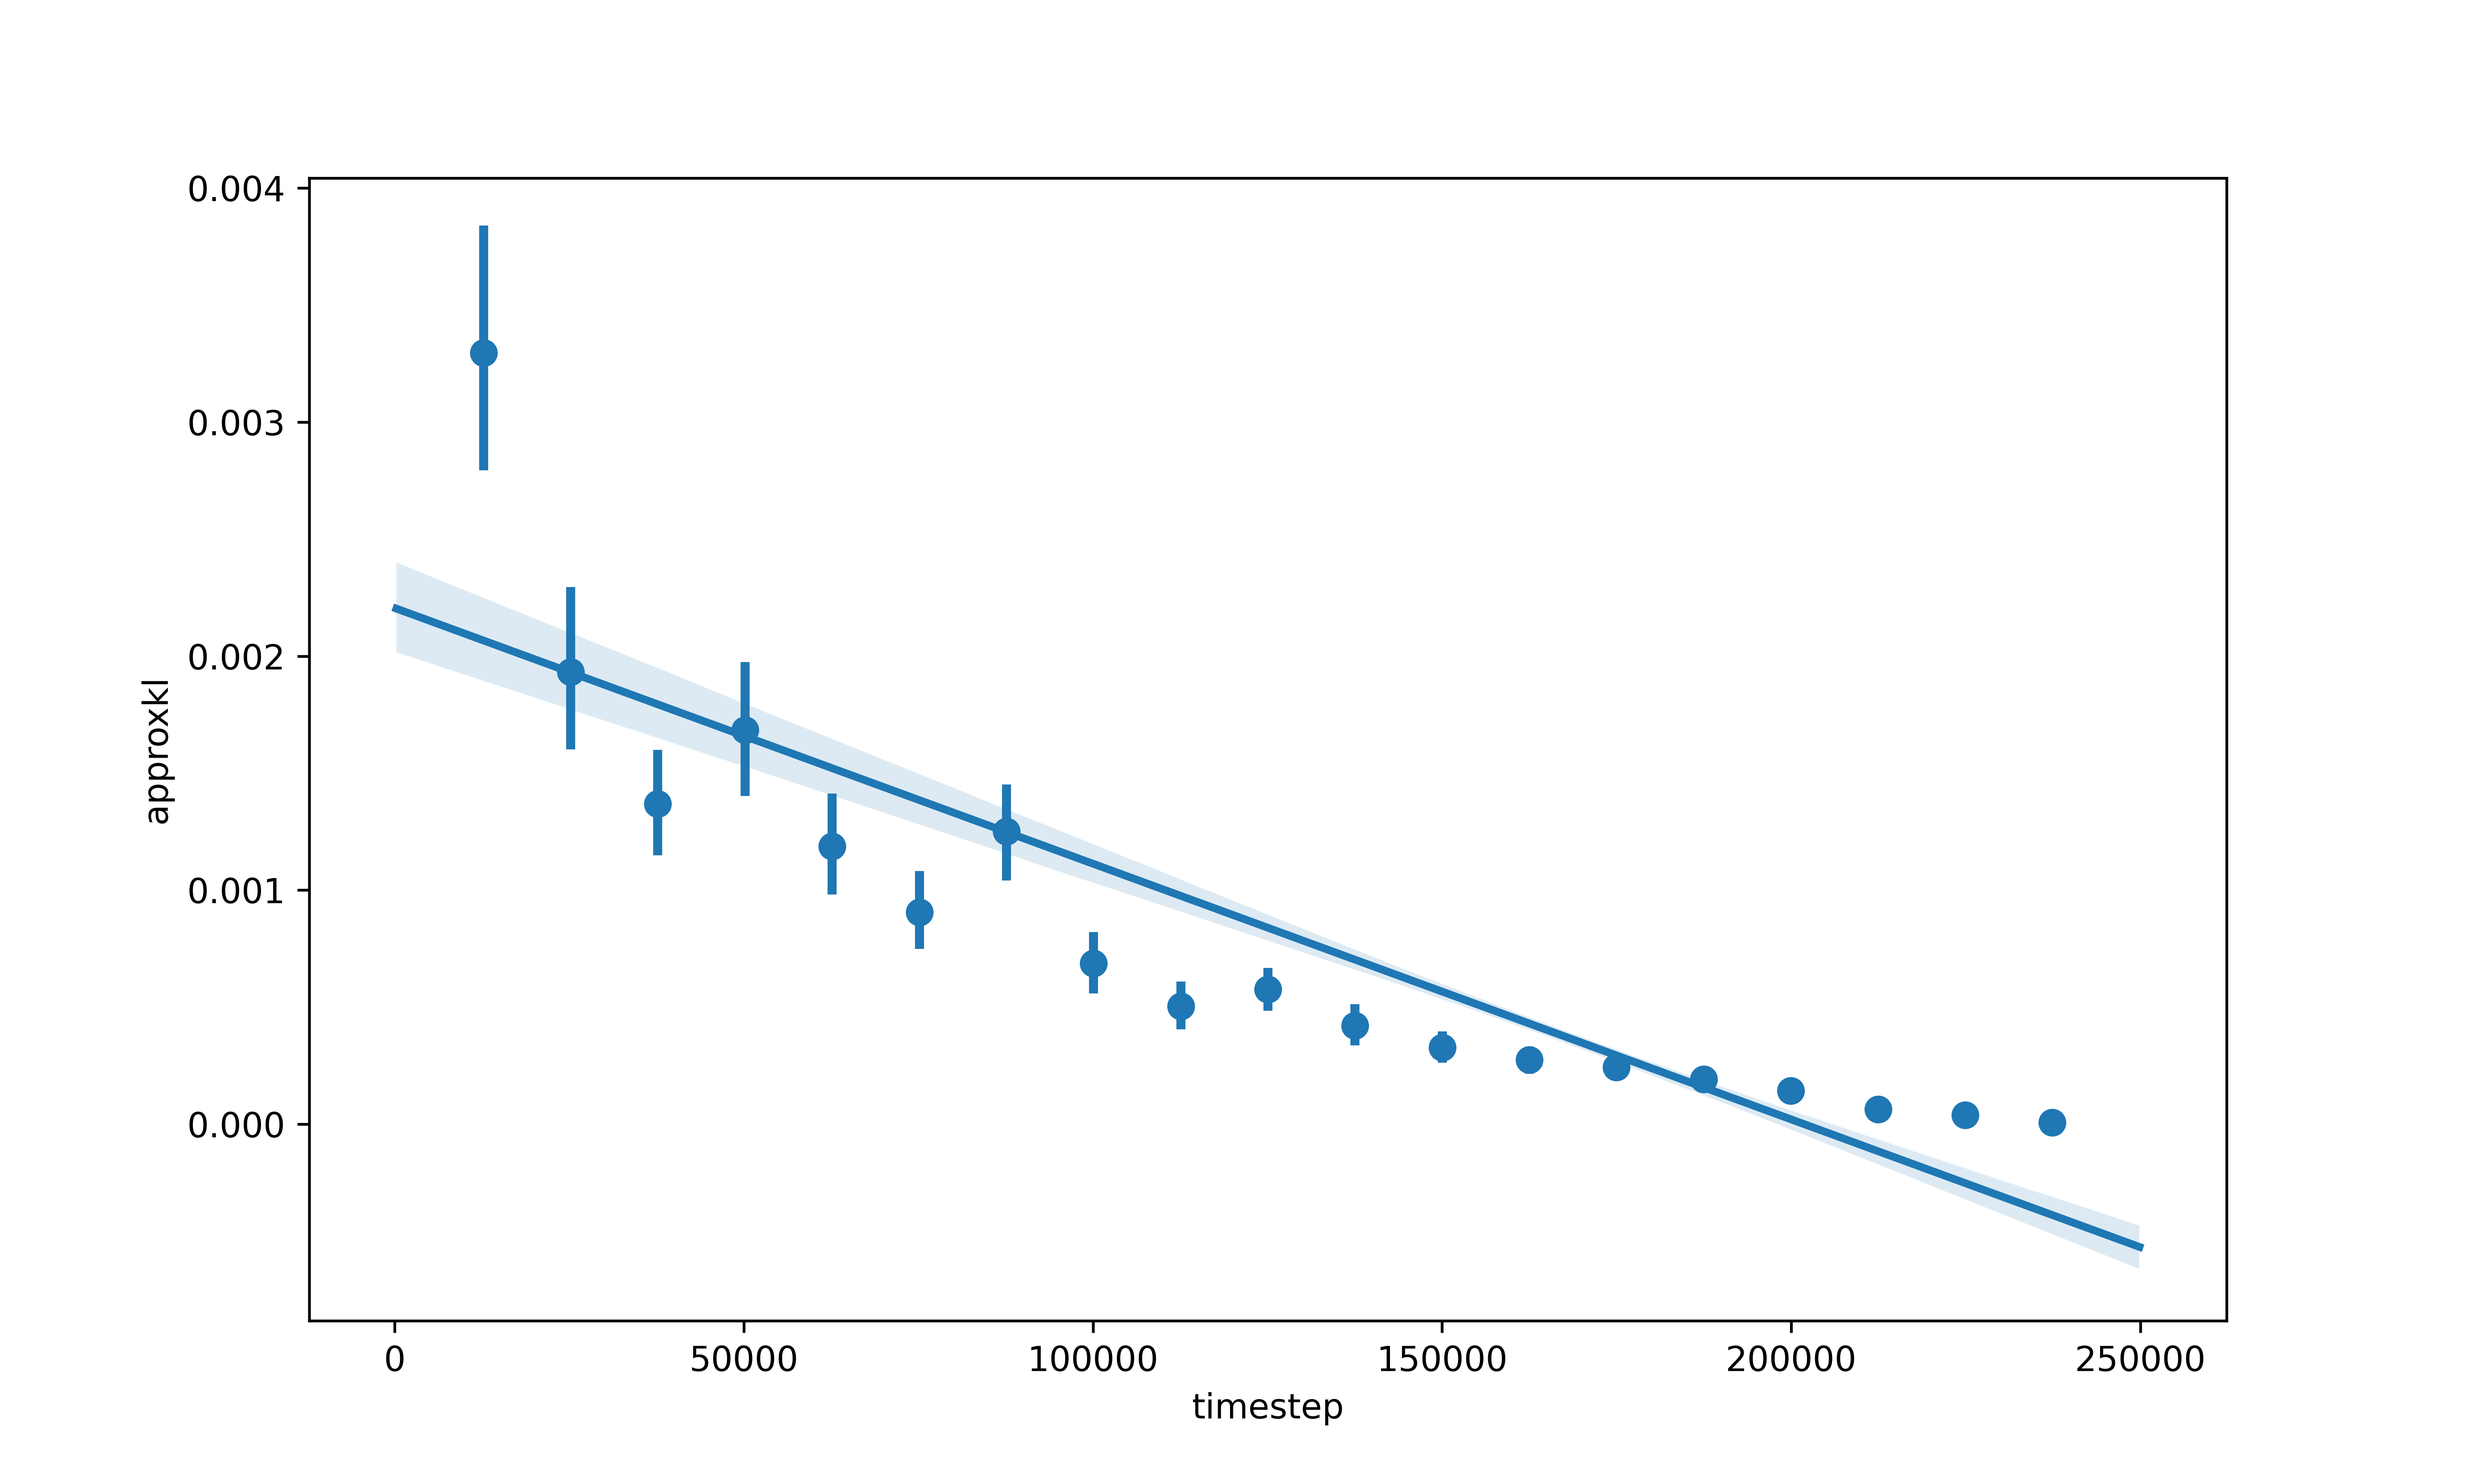
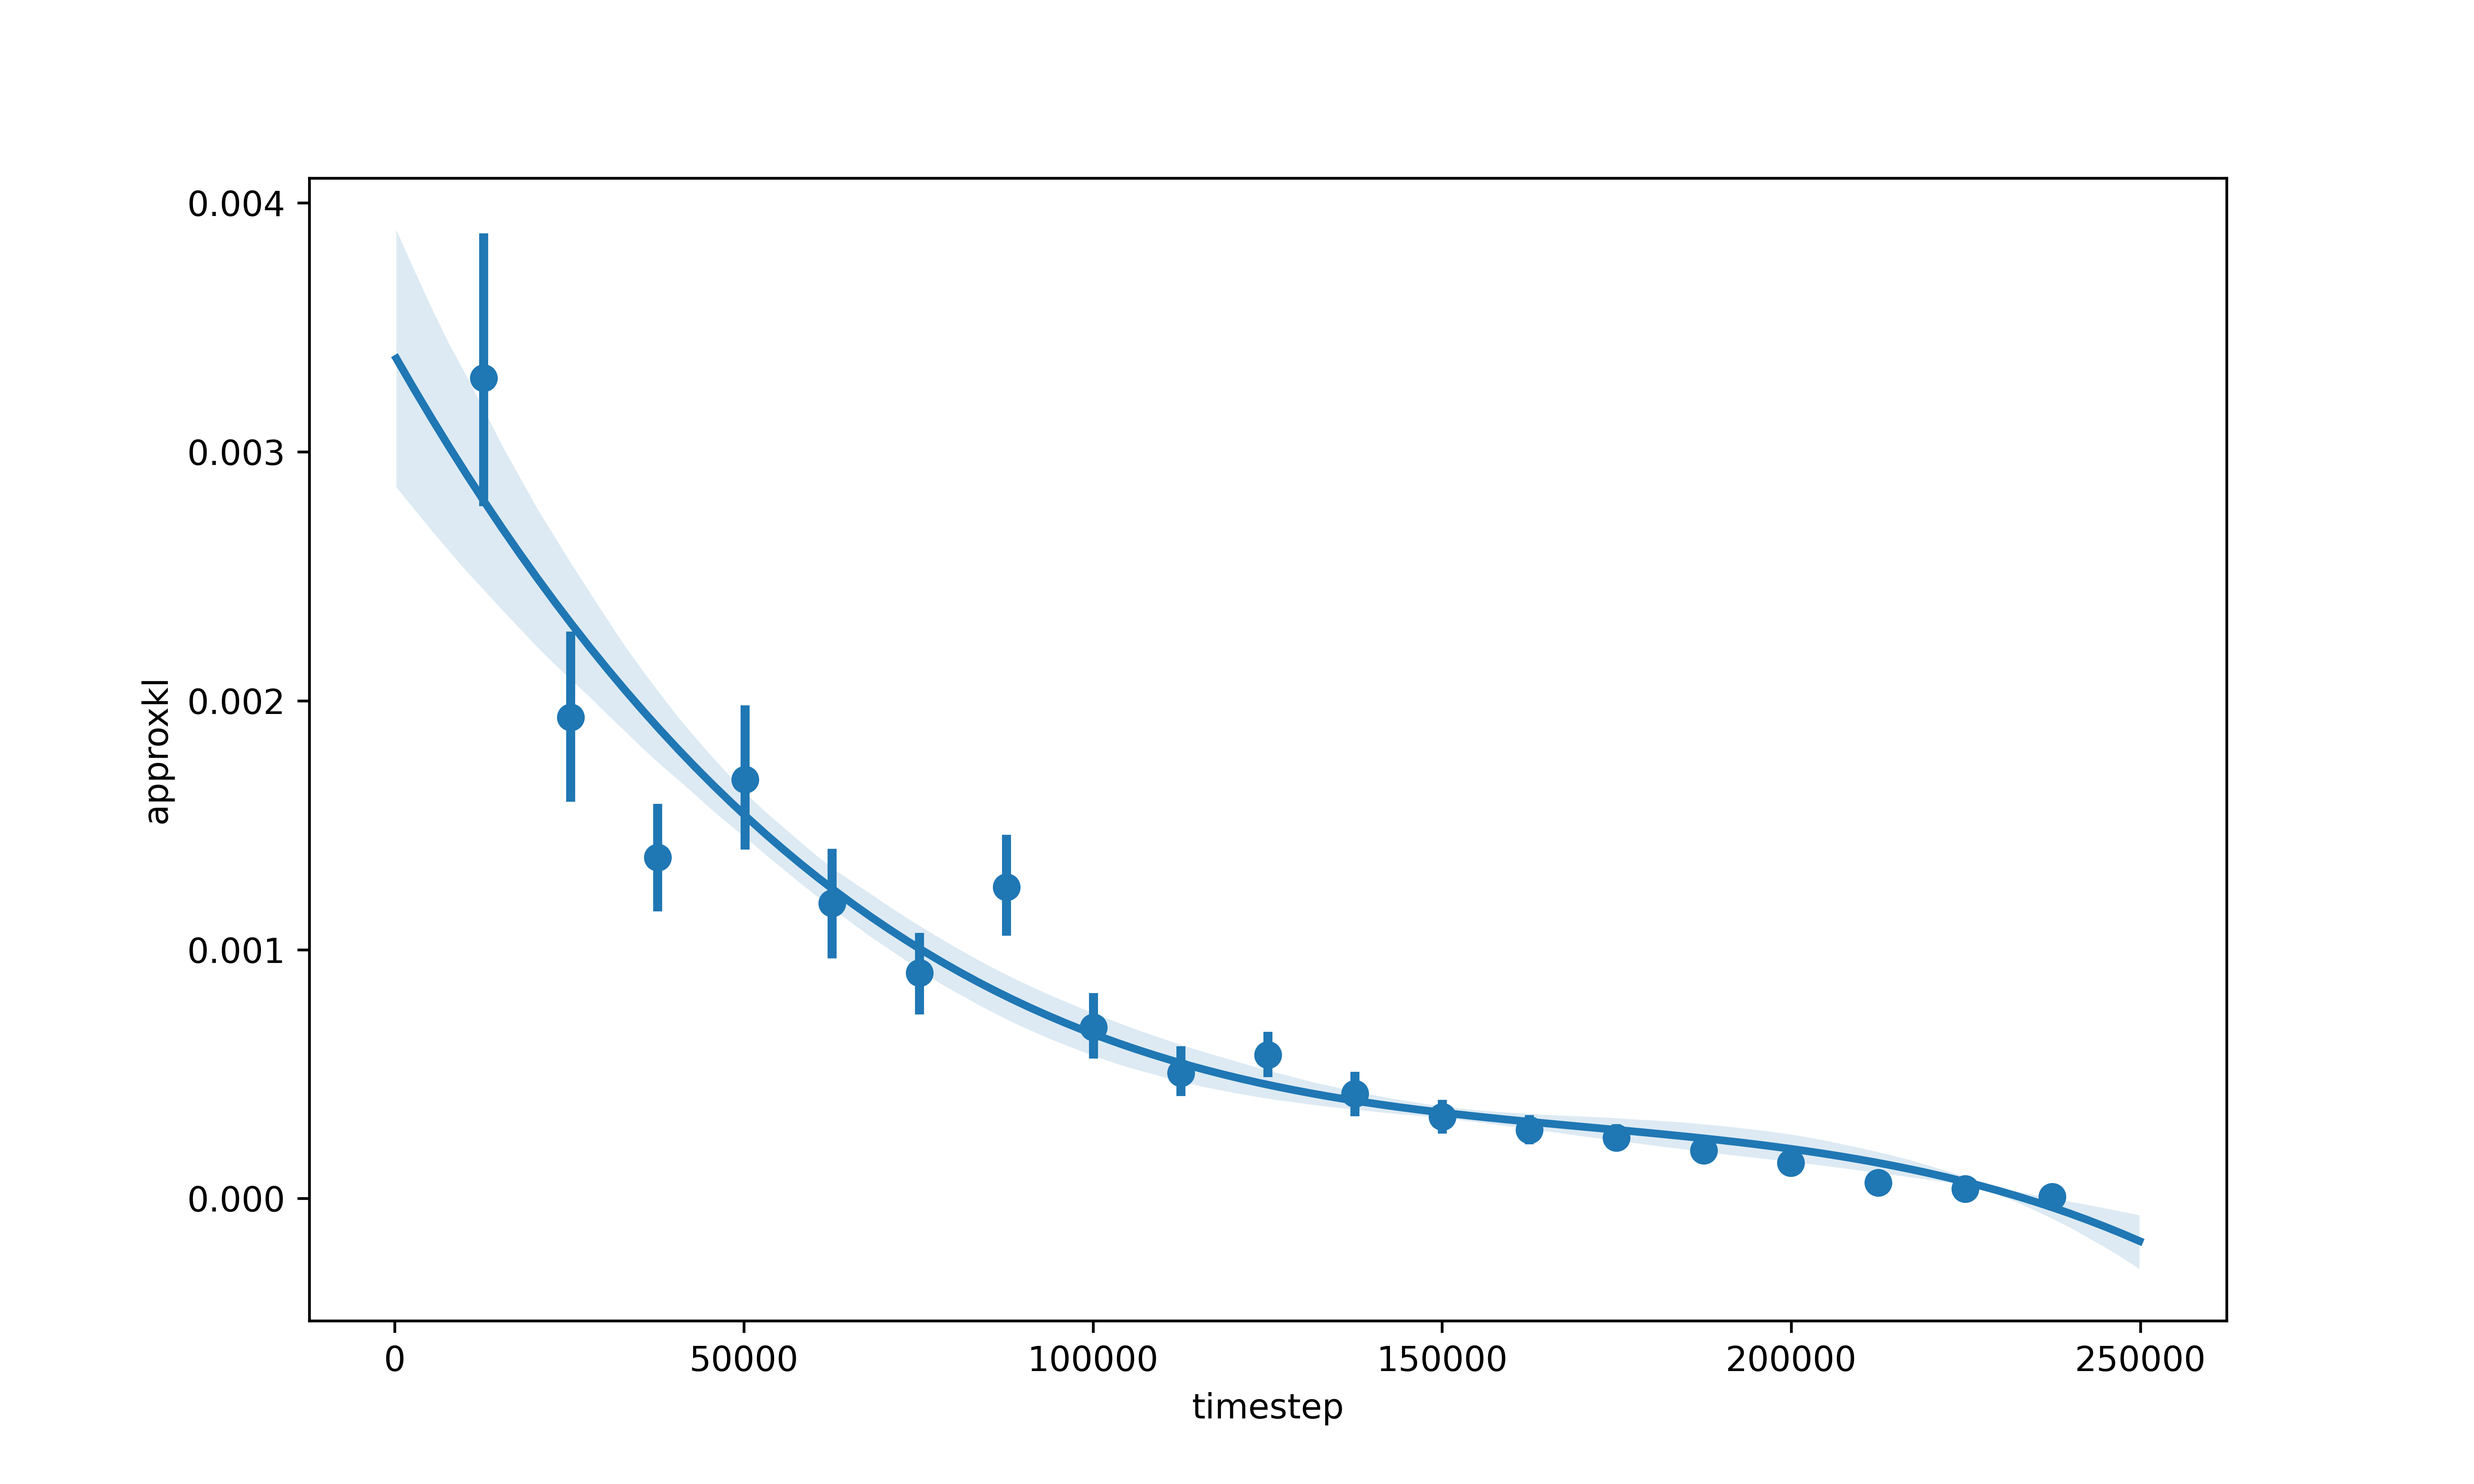
changed to regression with 3rd order

diff --git a/data/plot.py b/data/plot.py
@@ -1,16 +1,14 @@
 import os
-import sys
 
 import matplotlib.pyplot as plt
-import numpy as np
 import pandas as pd
 import seaborn as sns
 
-for file_name in sorted(os.listdir("data/csv")):
-    if not os.path.exists(f"data/plots/{file_name.split('.')[0]}"):
-        os.makedirs("data/plots/" + file_name.split(".")[0])
+for file_name in sorted(os.listdir("csv")):
+    if not os.path.exists(f"plots/{file_name.split('.')[0]}"):
+        os.makedirs("plots/" + file_name.split(".")[0])
 
-    df = pd.read_csv("data/csv/" + file_name, sep=",")
+    df = pd.read_csv("csv/" + file_name, sep=",")
     print(file_name)
 
     agg_interval = 50
@@ -23,8 +21,8 @@ for file_name in sorted(os.listdir("data/csv")):
             continue
 
         plt.figure(figsize=(10, 6))
-        ax = sns.regplot(x="timestep", y=key, data=df, marker="o", x_bins=bins)
+        ax = sns.regplot(x="timestep", y=key, data=df, marker="o", x_bins=bins, order=3)
         plt.savefig(
-            f"data/plots/{file_name.split('.')[0]}/" + file_name.split(".")[0] + "-" + key + ".png",
+            f"plots/{file_name.split('.')[0]}/" + file_name.split(".")[0] + "-" + key + ".png",
             dpi=600,
         )

diff --git a/coinrun/ppo2.py b/coinrun/ppo2.py
@@ -444,7 +444,7 @@ def learn(
             mpi_print("eprew", rew_mean_10)
             mpi_print("fps", fps)
             mpi_print("total_timesteps", update * nbatch)
-            mpi_print([epinfo["r"] for epinfo in epinfobuf10])
+            mpi_print([epinfo["r"] for epinfo in epinfobuf100])
 
             if len(mblossvals):
                 for lossval, lossname in zip(lossvals, model.loss_names):
